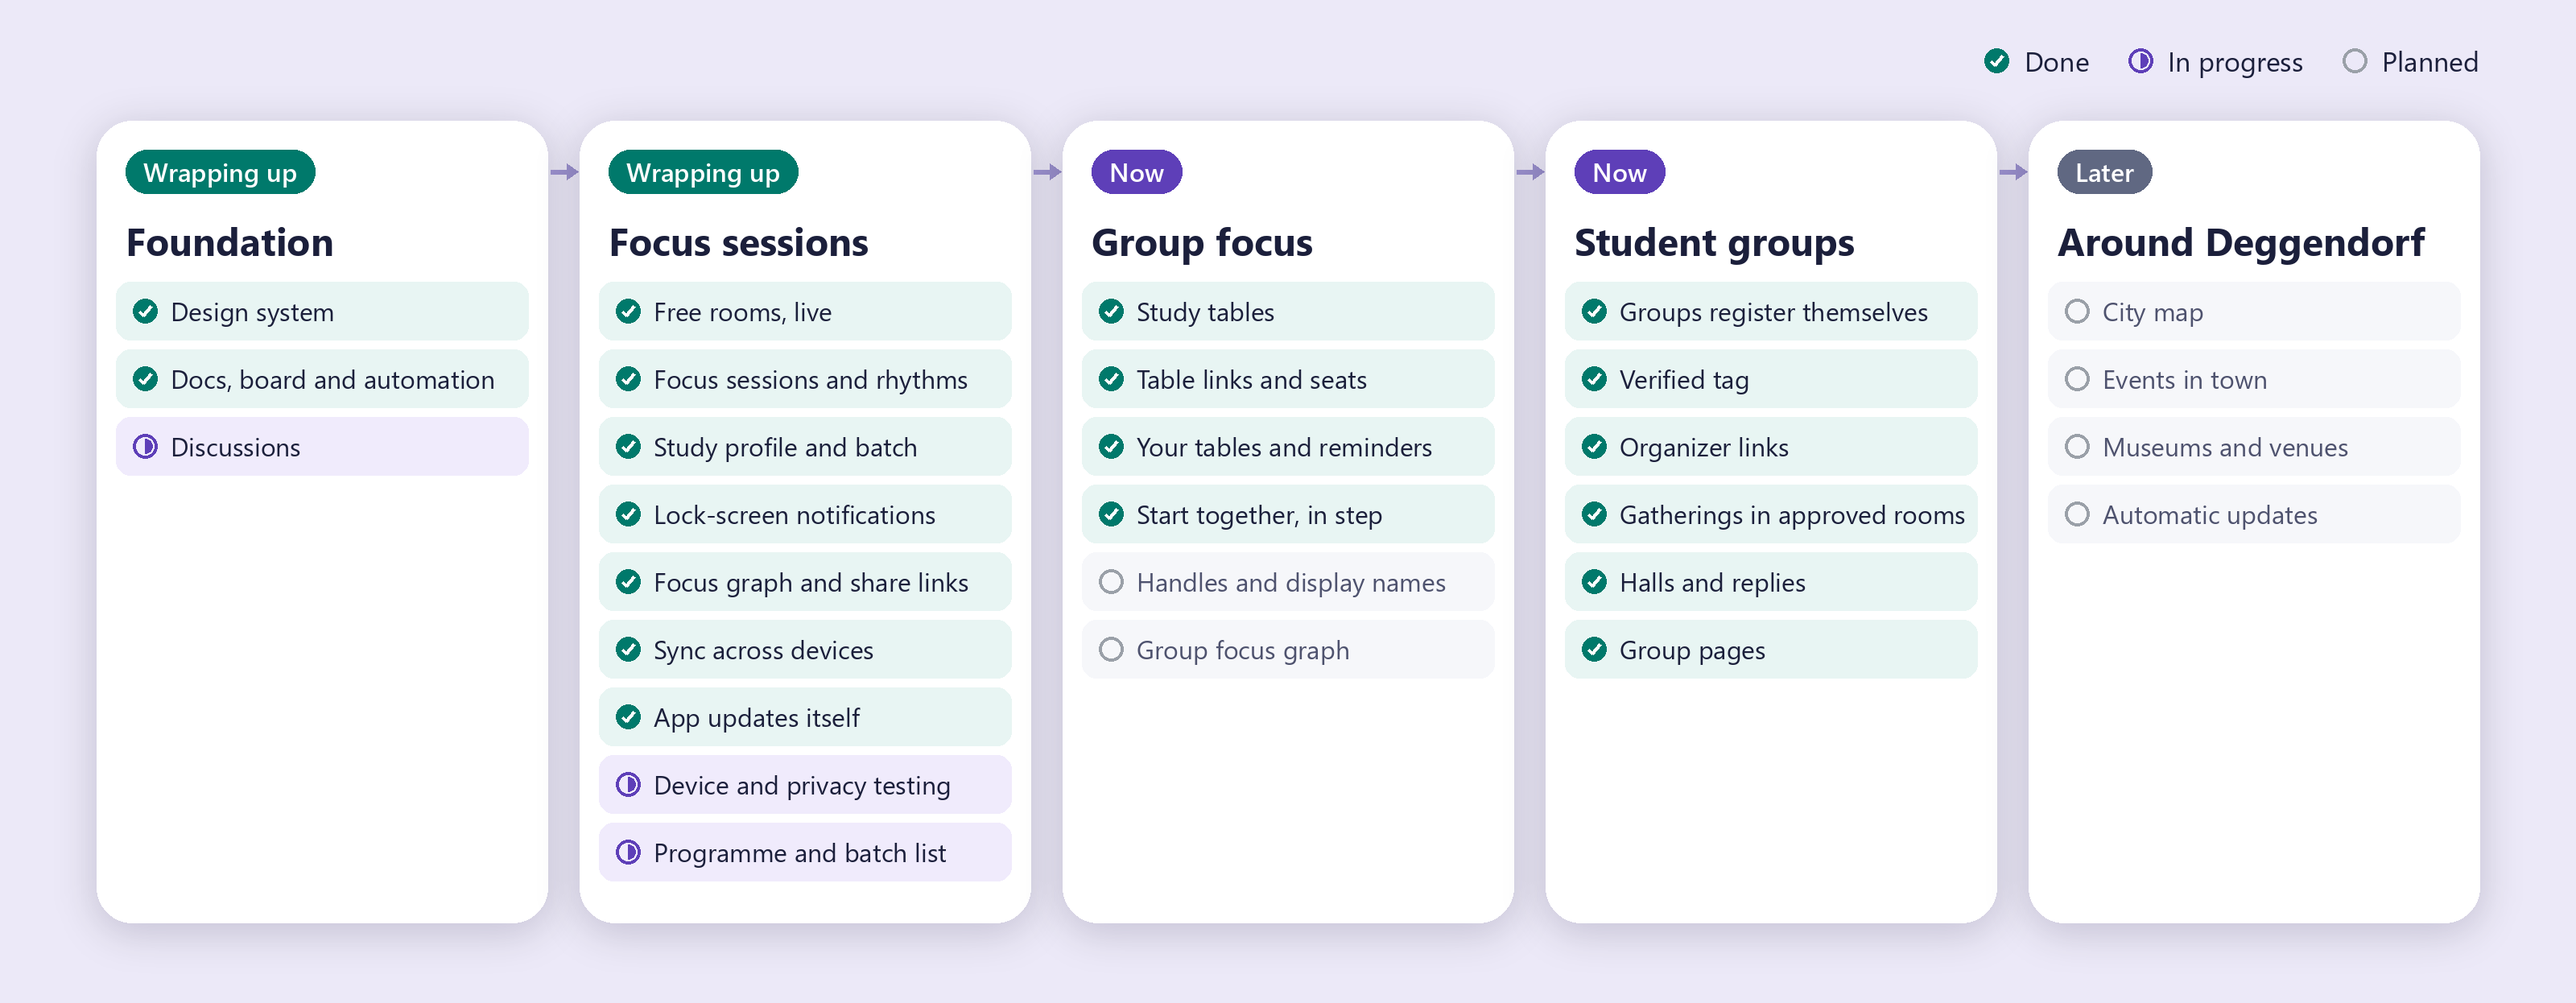
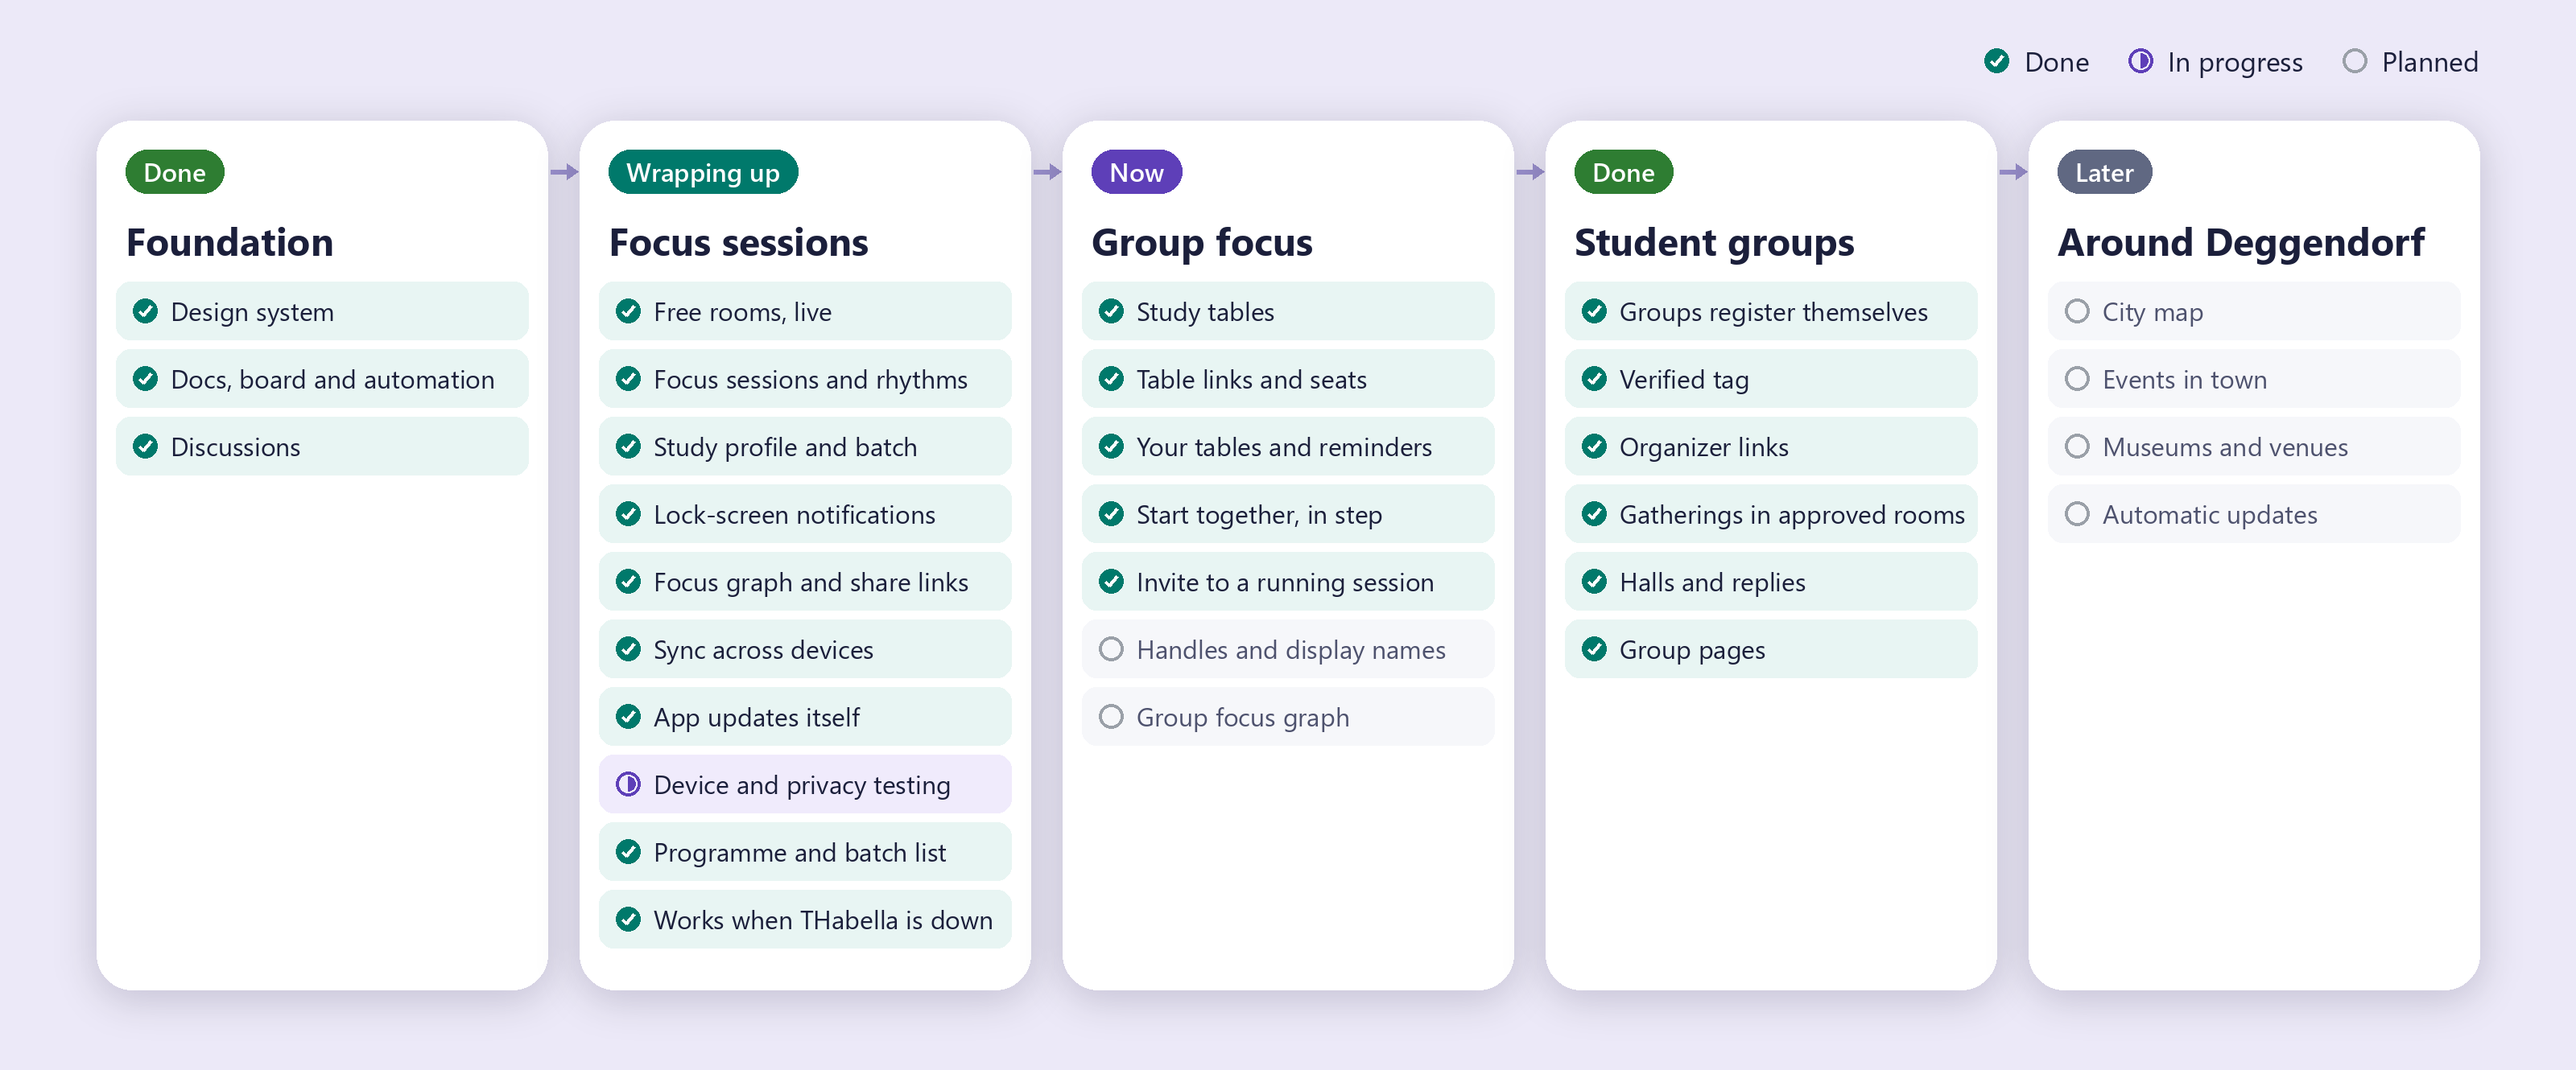
docs(community): mark what shipped up to v2.5.2 on the roadmap
- Foundation and Student groups are done; Discussions is live
- Focus sessions: the programme list is done, plus "Works when
  THabella is down"; device and privacy testing stays in progress
- Group focus: add "Invite to a running session"
- Add a green Done chip to the roadmap builder

Changed region(s): [[0.0312, 0.0305, 0.9688, 0.8844], [0.0312, 0.9149, 0.9688, 0.9454]]

diff --git a/design/roadmap/build.py b/design/roadmap/build.py
@@ -26,7 +26,7 @@ FONTS = 'C:/Windows/Fonts/'
 BOLD, SEMI, REG = 'segoeuib.ttf', 'seguisb.ttf', 'segoeui.ttf'
 NAVY, MUTED = (27, 31, 59), (78, 82, 110)
 TEAL, PURPLE, GREY, BLUE = (0, 121, 107), (94, 63, 184), (154, 160, 168), (21, 101, 192)
-CHIP = {'Wrapping up': TEAL, 'Now': PURPLE, 'Next': BLUE, 'Later': (96, 104, 130)}
+CHIP = {'Done': (46, 125, 50), 'Wrapping up': TEAL, 'Now': PURPLE, 'Next': BLUE, 'Later': (96, 104, 130)}
 ICON = Image.open(os.path.join(REPO, 'public', 'icons', 'app-icon-512.png')).convert('RGBA')
 
 
